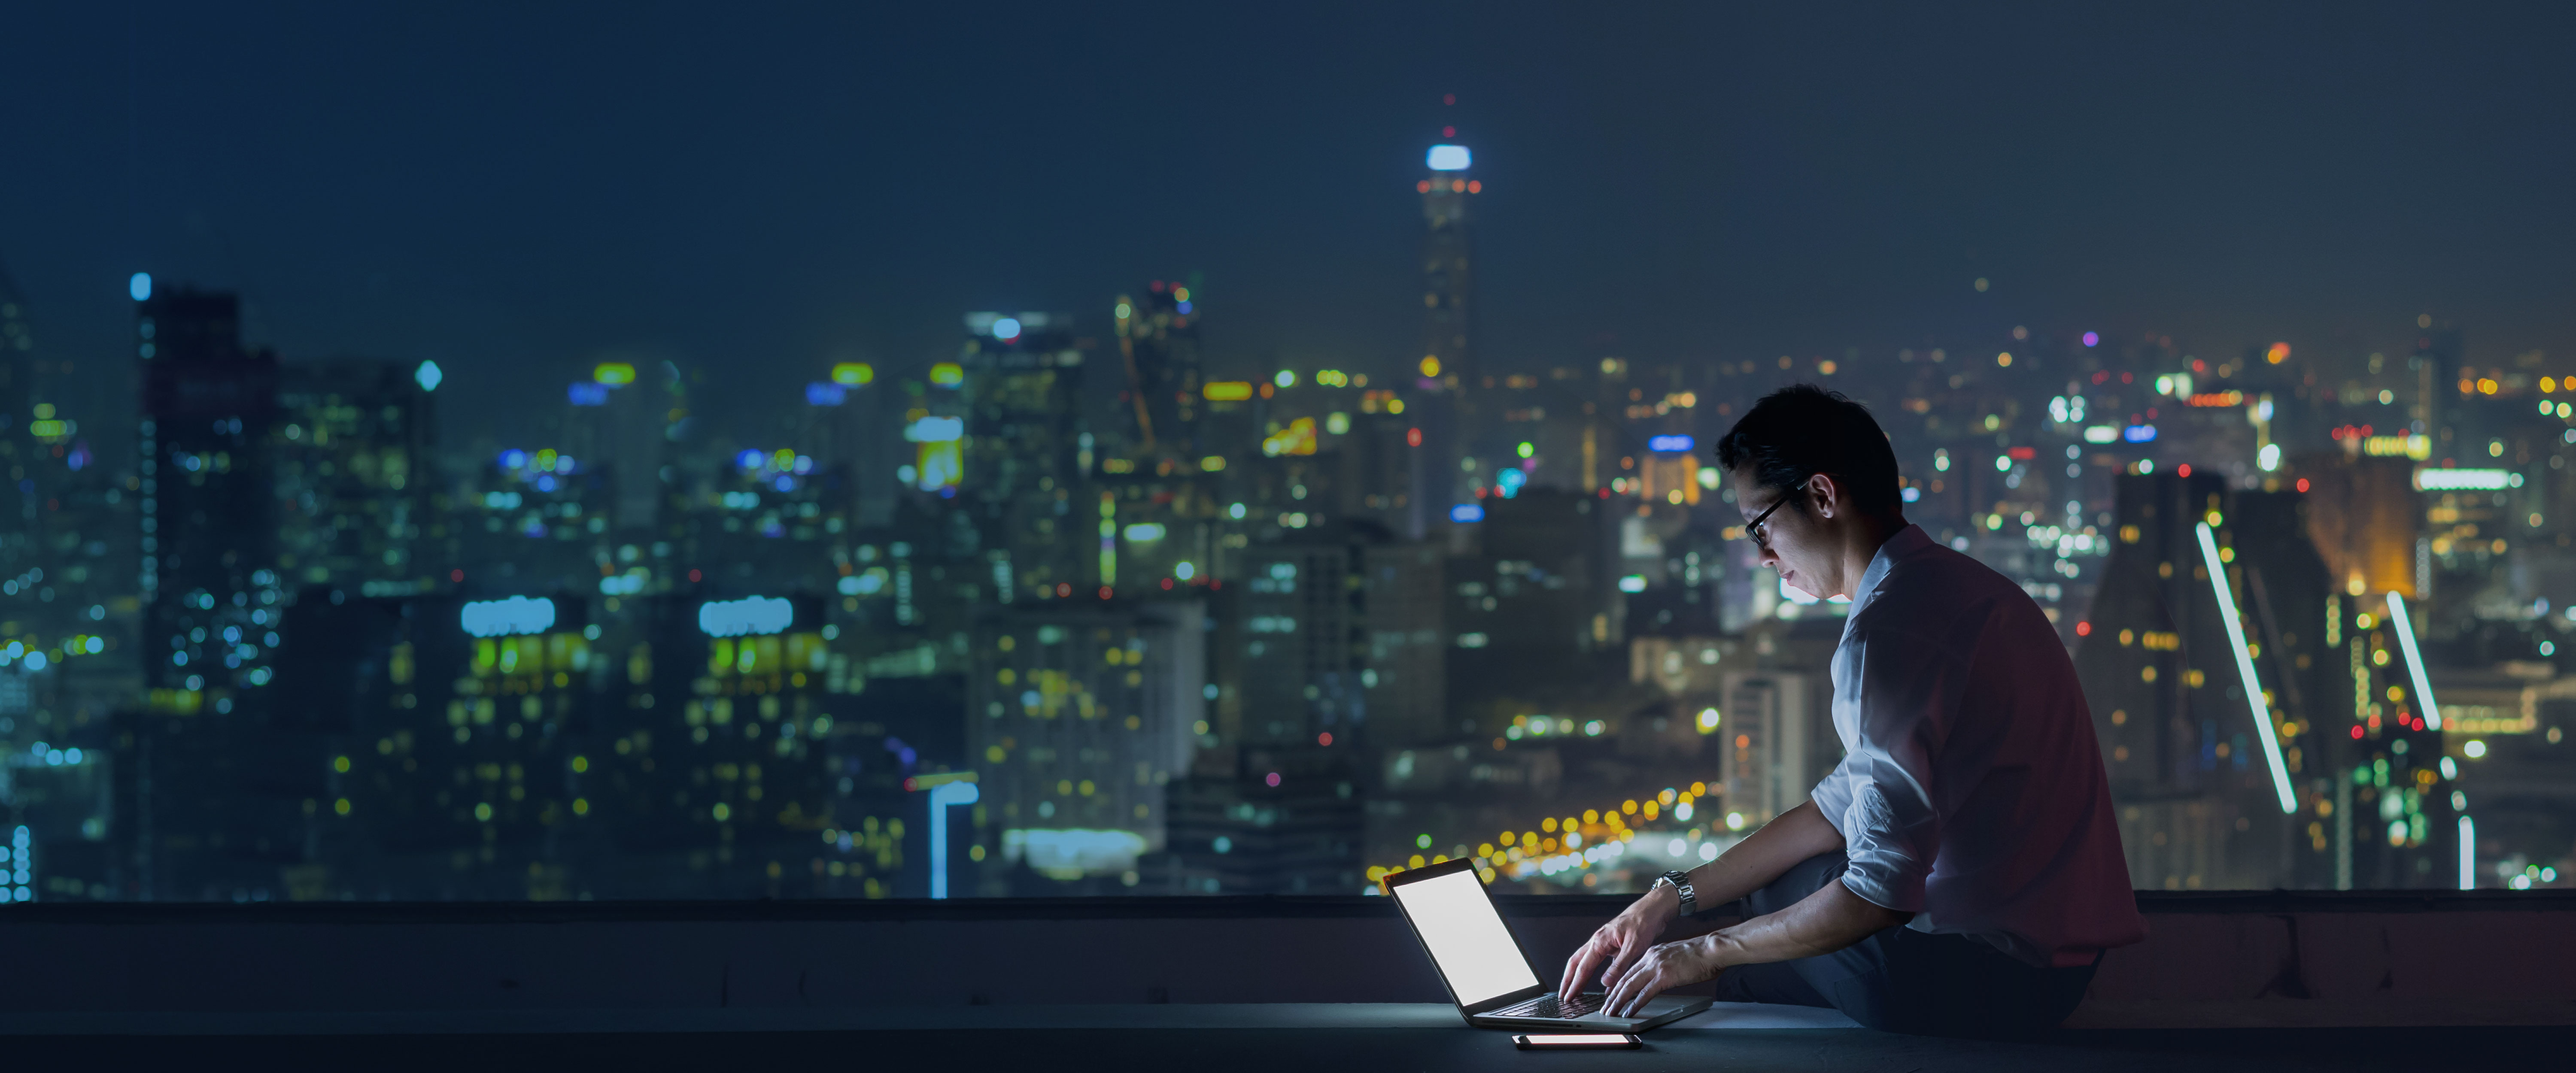
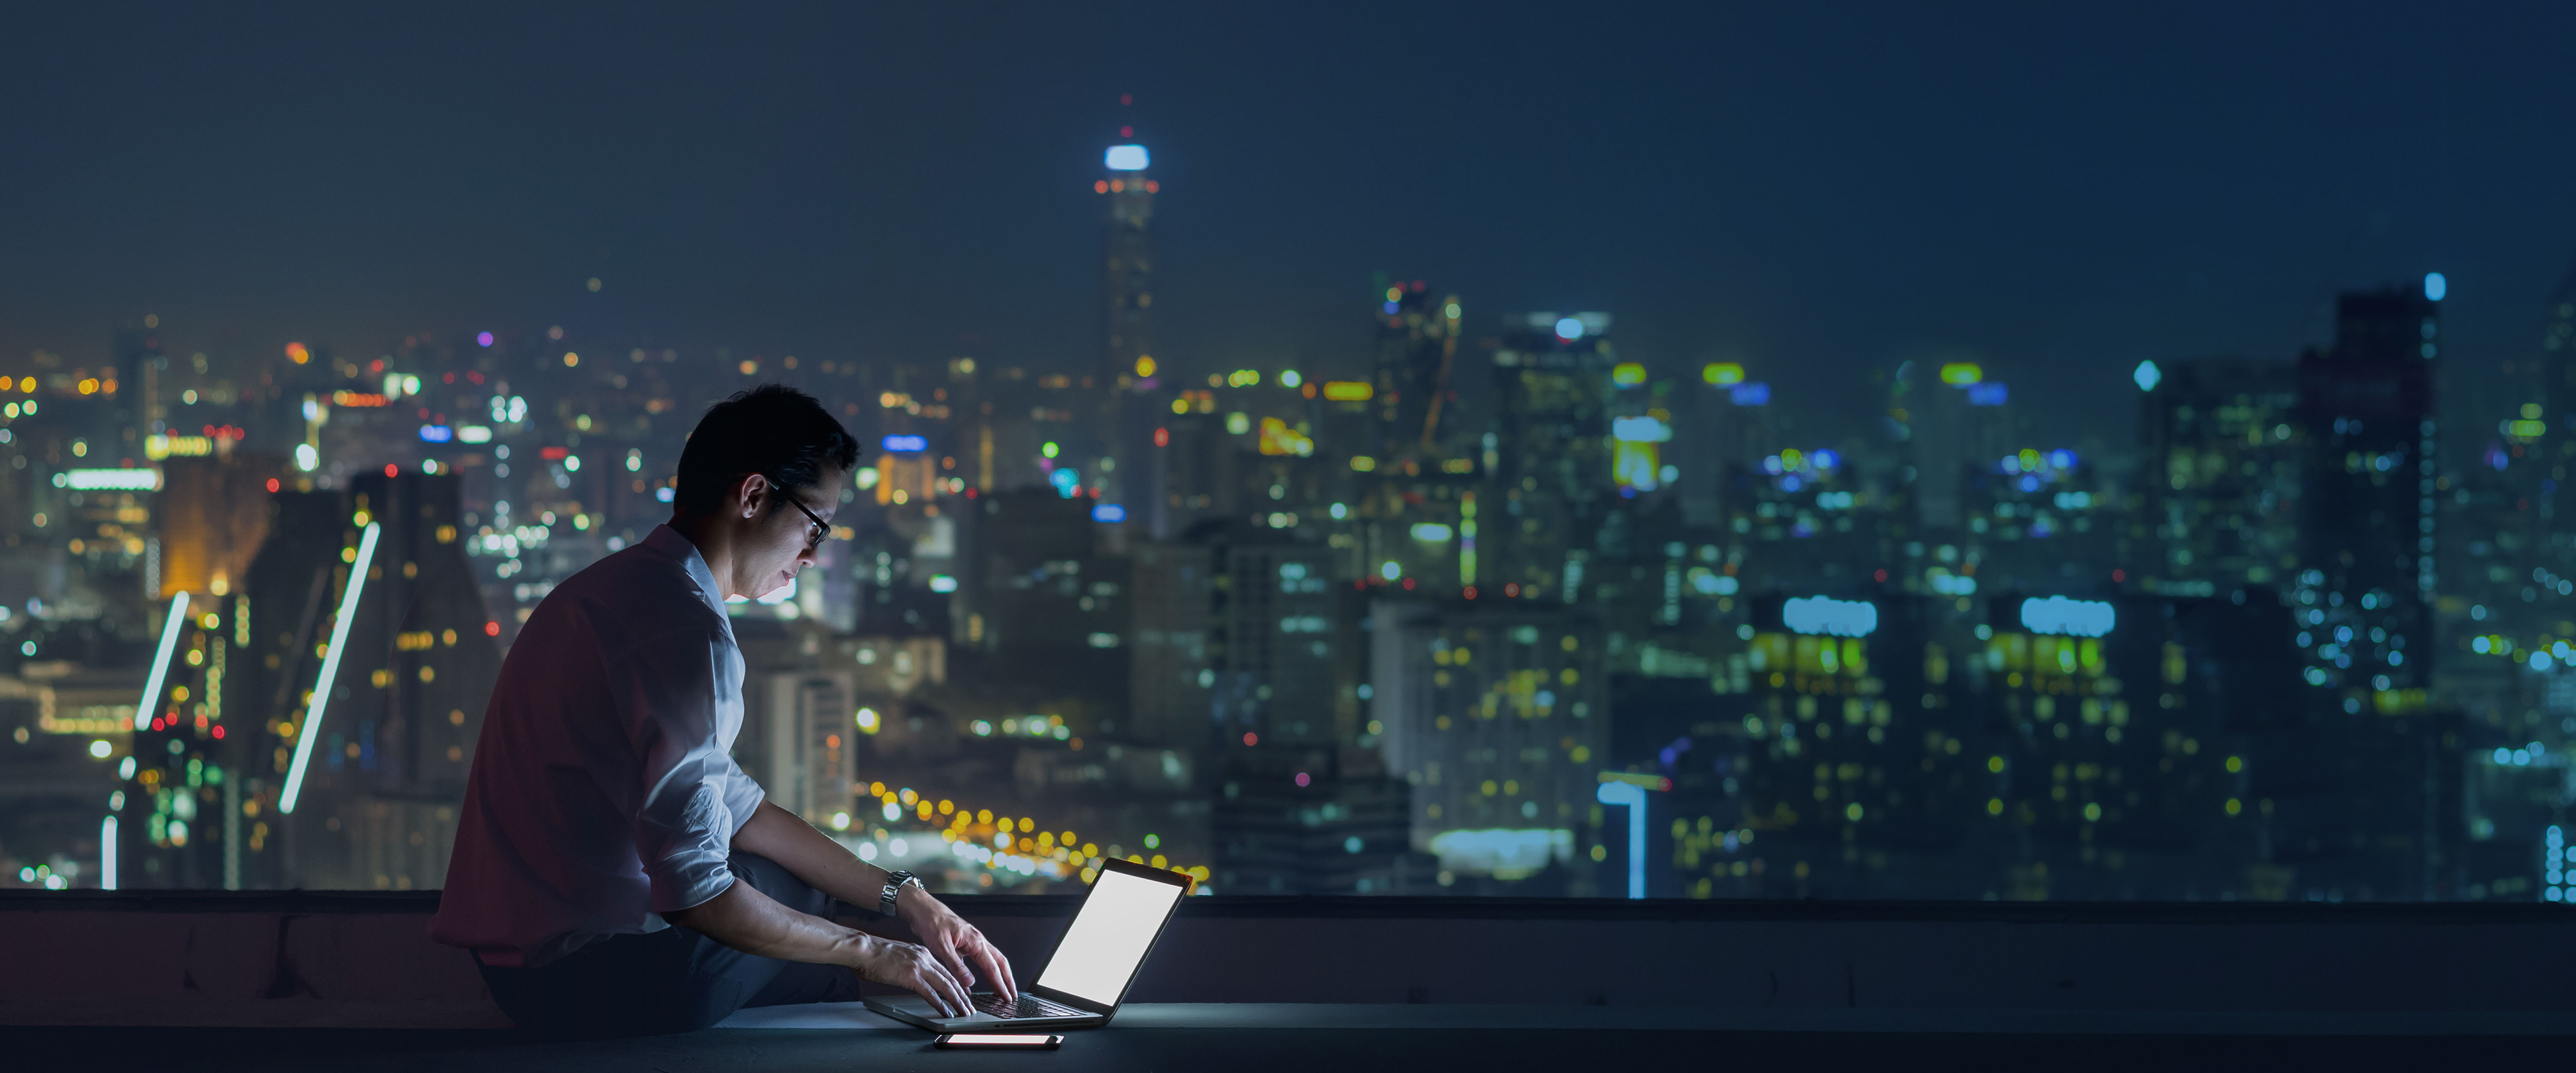
2408-3

diff --git a/liquid-analytics-jobs/lhanalytics-style.css b/liquid-analytics-jobs/lhanalytics-style.css
@@ -12,7 +12,7 @@ p.caption-content{width: 350px; font-size: 20px; font-family: 'Lato-Regular', Ar
 .recruitmentFormArea{margin-top: 70px;}
 .recruitmentForm{width: 300px; margin:0 auto;}
 .header-caption{width: 340px; position: absolute; margin-top: 15%;left: 35%;}
-.header-caption h1{ color: #fff; text-transform: #fff; font-size: 42px; text-transform: uppercase; line-height: 48px}
+.header-caption h1{ color: #fff; font-size: 42px; text-transform: uppercase; line-height: 48px}
 .header-caption h1 span{font-family: 'Lato-Black', Arial, Gotham, Helvetica Neue, Helvetica;}
 .registrationForm{ width: 340px; background: rgba(0,0,0,.5); min-height: 400px; position: absolute; margin-top: 10%; border: 1px solid #333; right: 15px;}
 .registrationForm iframe{border: 0px; min-height: 400px; width: 340px;padding-left: 20px; padding-top: 15px;}
@@ -28,18 +28,22 @@ h2.section-title{color: #1e407b;font-family: 'Lato-Black', Arial, Gotham, Helvet
 .companyRole-colContent ul li{font-size: 16px; line-height: 28px;}
 .companyRole-colContent ul li > ul { list-style-type: none; padding-left: 20px; }
 .companyRole-colContent ul li > ul li:before { content: '\2014'; position: absolute; margin-left: -20px; }
-.wide { width:100%; height:737px; background-image:url('../img/singapore-recruitment-banner.jpg'); background-size:cover; }
+.wide { width:100%; height:737px; background-image:url('../img/singapore-recruitment-banner.jpg'); background-size:cover; background-position: center }
 .overlay { height: 737px; position: absolute; width: 100%; background: rgba(0,0,0,.5); }
 .companyRole-colContent.content-left ul li{color: #fff}
+
+@media only screen and (min-width: 1024px){
+	.header-caption { font-size: 38px; left: 24%;}
+}
+
 
 @media only screen and (min-width: 1920px){
 	.carousel,.carousel-inner{height: 800px}
 	.wide {height: 800px;}
 	.overlay { height: 800px;}
 }
-@media only screen and (min-width: 1280px){
-	.header-caption { font-size: 38px; left: 6%;}
-}
+
+
 @media only screen and (min-width: 768px) and (max-width: 1024px) {
 	.header-caption{left: 6%;}
 }

diff --git a/liquid-analytics-jobs/index.html b/liquid-analytics-jobs/index.html
@@ -65,7 +65,7 @@
       <div class="container">
         <div class="row">
           <div class="navbar-header">
-            <button type="button" class="navbar-toggle collapsed" data-toggle="collapse" data-target="#navbar" aria-expanded="false" aria-controls="navbar"> <span class="sr-only">Toggle navigation</span> <span class="icon-bar"></span> <span class="icon-bar"></span> <span class="icon-bar"></span> </button>
+             <!--<button type="button" class="navbar-toggle collapsed" data-toggle="collapse" data-target="#navbar" aria-expanded="false" aria-controls="navbar"> <span class="sr-only">Toggle navigation</span> <span class="icon-bar"></span> <span class="icon-bar"></span> <span class="icon-bar"></span> </button>-->
             <a class="navbar-brand" href="index.html"></a> </div>
             
           <!--<div id="navbar" class="navbar-collapse collapse main-nav hidden-xs" data-hover="dropdown" data-animations="fadeIn">
